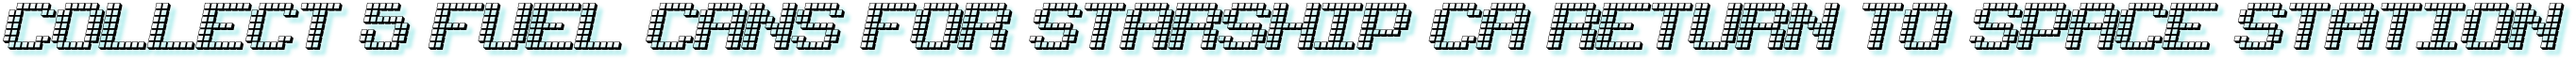
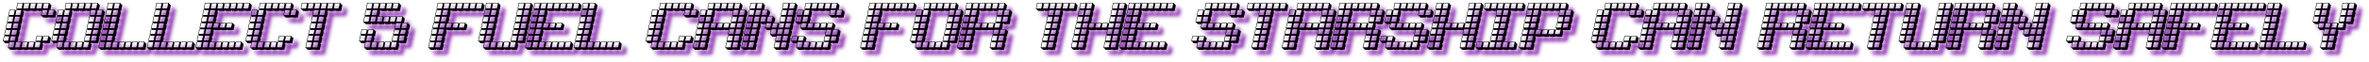
retoques

diff --git a/index.html b/index.html
@@ -1,37 +1,41 @@
 <!DOCTYPE html>
 <html lang="en">
-<head>
-    <meta charset="UTF-8">
-    <meta http-equiv="X-UA-Compatible" content="IE=edge">
-    <meta name="viewport" content="width=device-width, initial-scale=1.0">
+  <head>
+    <meta charset="UTF-8" />
+    <meta http-equiv="X-UA-Compatible" content="IE=edge" />
+    <meta name="viewport" content="width=device-width, initial-scale=1.0" />
     <title>document</title>
-    <link rel="stylesheet" href="./Styles/style.css">
-</head>
-<body>
-
+    <link rel="stylesheet" href="./Styles/style.css" />
+  </head>
+  <body>
     <div id="start-screen" class="container">
-        <img src="./images/logo.png" width="800" height="150" alt="logo">
-        <img src="./images/mission.png" width="400" height="80" alt="mission">
-        <img src="./images/mtext.png" width="900" height="30" alt="mtext">
-        <img src="./images/controls.png" width="400" height="80" alt="controls">
-        <img src="./images/arrow.png" width="500" height="200" alt="controls">
-        <button id="start-btn">Start!</button>
+      <img src="./images/logo.png" width="800" height="150" alt="logo" />
+      <img src="./images/mission.png" width="400" height="80" alt="mission" />
+      <img src="./images/mtext.png" width="900" height="30" alt="mtext" />
+      <img src="./images/controls.png" width="400" height="80" alt="controls" />
+      <img src="./images/arrow.png" width="500" height="200" alt="controls" />
+      <button id="start-btn">Start!</button>
     </div>
 
-    
     <div id="game-screen" class="container">
-        <span id="fuel-counter">Fuel: 0</span>
-        <div id="game-box"></div>
+      <span id="fuel-counter">Fuel: 0</span>
+      <div id="game-box"></div>
     </div>
 
     <div id="gameover-screen" class="container">
-        <img src="./images/gameover.png" width="500" height="150" alt="gameover">
-        <button id="restart-btn">Play again!</button>
+      <img
+        src="./images/gameover.png"
+        width="500"
+        height="150"
+        alt="gameover"
+      />
+      <button id="restart-btn">Play again!</button>
     </div>
 
     <div id="gamewin-screen" class="container">
-        <img src="./images/win.png" width="400" height="150" alt="win">
-        <button id="home-btn">Home screen</button>
+      <img src="./images/win.png" width="400" height="150" alt="win" />
+      <img src="./images/wintext.png" width="900" height="50" alt="wintext" />
+      <button id="home-btn">Home screen</button>
     </div>
 
     <script src="./js/main.js"></script>
@@ -40,6 +44,5 @@
     <script src="./js/meteor.js"></script>
     <script src="./js/fuel.js"></script>
     <script src="./js/comet.js"></script>
-
-</body>
+  </body>
 </html>

diff --git a/js/game.js b/js/game.js
@@ -28,10 +28,10 @@ class Game {
   collisionNaveMeteor = () => {
     this.meteorArr.forEach((eachMeteor) => {
       if (
-        this.nave.x < eachMeteor.x -10 + eachMeteor.w &&
-        this.nave.x + this.nave.w -10 > eachMeteor.x &&
-        this.nave.y < eachMeteor.y -10 + eachMeteor.h &&
-        this.nave.h + this.nave.y -10 > eachMeteor.y
+        this.nave.x < eachMeteor.x - 10 + eachMeteor.w &&
+        this.nave.x + this.nave.w - 10 > eachMeteor.x &&
+        this.nave.y < eachMeteor.y - 10 + eachMeteor.h &&
+        this.nave.h + this.nave.y - 10 > eachMeteor.y
       ) {
         this.gameOver();
       }
@@ -55,10 +55,10 @@ class Game {
   collisionNaveFuel = () => {
     this.fuelArr.forEach((eachFuel) => {
       if (
-        this.nave.x < eachFuel.x -10 + eachFuel.w &&
-        this.nave.x + this.nave.w -10 > eachFuel.x &&
-        this.nave.y < eachFuel.y -10 + eachFuel.h &&
-        this.nave.h + this.nave.y -10 > eachFuel.y
+        this.nave.x < eachFuel.x - 10 + eachFuel.w &&
+        this.nave.x + this.nave.w - 10 > eachFuel.x &&
+        this.nave.y < eachFuel.y - 10 + eachFuel.h &&
+        this.nave.h + this.nave.y - 10 > eachFuel.y
       ) {
         this.fuelCount++;
         console.log(this.fuelCount);
@@ -90,10 +90,10 @@ class Game {
   collisionNaveComet = () => {
     this.cometArr.forEach((eachComet) => {
       if (
-        this.nave.x < eachComet.x -10 + eachComet.w &&
-        this.nave.x + this.nave.w -10 > eachComet.x &&
-        this.nave.y < eachComet.y -10 + eachComet.h &&
-        this.nave.h + this.nave.y -10 > eachComet.y
+        this.nave.x < eachComet.x - 10 + eachComet.w &&
+        this.nave.x + this.nave.w - 10 > eachComet.x &&
+        this.nave.y < eachComet.y - 10 + eachComet.h &&
+        this.nave.h + this.nave.y - 10 > eachComet.y
       ) {
         this.gameOver();
       }
@@ -161,14 +161,3 @@ class Game {
   };
 }
 
-// planificación
-
-//PROPIEDADES
-//nave => posicion y tamaño
-//meteoritos => posicion y tamaño
-
-//METODOS
-//movimiento nave
-//movimiento meteoritos
-//colisiones
-//hueco aleatorio en fila meteoritos

diff --git a/Styles/style.css b/Styles/style.css
@@ -1,55 +1,59 @@
 body {
-    margin: 0;
-    background-color: black;
-    background-image: url("../images/bg.jpg");
-  }
+  margin: 0;
+  background-color: black;
+  background-image: url("../images/bg.jpg");
+}
 
-#start-btn, #restart-btn, #home-btn {
-    background-color: rgb(44, 44, 44);
-    color: rgb(8, 247, 255);
-    padding: 20px;
-    font-size: 20px;
-    margin-top: 20px;
-    border-radius: 10px;
+#start-btn,
+#restart-btn,
+#home-btn {
+  background-color: rgb(44, 44, 44);
+  color: rgb(8, 247, 255);
+  padding: 20px;
+  font-size: 20px;
+  margin-top: 20px;
+  border-radius: 10px;
 }
 
 .container {
-    display: flex;
-    flex-direction: column;
-    justify-content: center;
-    align-items: center;
-    margin: 50px;
+  display: flex;
+  flex-direction: column;
+  justify-content: center;
+  align-items: center;
+  margin: 50px;
 }
 
 #game-box {
-    background-color: darkgray;
-    width: 600px;
-    height: 400px;
+  background-color: darkgray;
+  width: 600px;
+  height: 400px;
 
-    overflow: hidden;
-    position: relative;
-    user-select: none;
+  overflow: hidden;
+  position: relative;
+  user-select: none;
 
-    background-image: url("../images/background.jpg");
-    background-position: center;
-    background-size: cover;
+  background-image: url("../images/background.jpg");
+  background-position: center;
+  background-size: cover;
 }
 
 #fuel-counter {
-    position: absolute;
-    top: 20px;
-    left: 400px;
-    color: rgb(8, 247, 255);
-    padding: 5px 10px;
-    font-size: 18px;
-    border: 1px;
-    background-image: url("../images/background.jpg");
+  position: absolute;
+  top: 20px;
+  left: 400px;
+  color: rgb(8, 247, 255);
+  padding: 5px 10px;
+  font-size: 18px;
+  border: 1px;
+  background-image: url("../images/background.jpg");
 }
 
-#game-screen, #gameover-screen, #gamewin-screen {
-    display: none;
+#game-screen,
+#gameover-screen,
+#gamewin-screen {
+  display: none;
 }
 
 img {
-    margin-bottom: 10px;
+  margin-bottom: 10px;
 }

diff --git a/js/nave.js b/js/nave.js
@@ -4,24 +4,20 @@ class Nave {
     this.node.src = "./images/nave.png";
     gameBoxNode.append(this.node);
 
-    //propiedades nave
-    this.x = 270; //posicion eje X
-    this.y = 300; //posicion eje Y
-    this.w = 70; //ancho
-    this.h = 90; //alto
+    this.x = 270;
+    this.y = 300;
+    this.w = 70;
+    this.h = 90;
 
     this.moveXSpeed = 20;
     this.moveYSpeed = 20;
 
-    //ajustar tamaño y posicion
     this.node.style.width = `${this.w}px`;
     this.node.style.height = `${this.h}px`;
     this.node.style.position = "absolute";
     this.node.style.top = `${this.y}px`;
     this.node.style.left = `${this.x}px`;
   }
-
-  //metodos nave
 
   moveEffectRight = () => {
     if (this.x < 500) {

diff --git a/js/comet.js b/js/comet.js
@@ -4,10 +4,10 @@ class Comet {
     this.node.src = "./images/comet.png";
     gameBoxNode.append(this.node);
 
-    this.x = -150; //posicion eje X
-    this.y = Math.floor(Math.random() * 320); //posicion eje Y
-    this.w = 80; //ancho
-    this.h = 25; //alto
+    this.x = -150;
+    this.y = Math.floor(Math.random() * 320);
+    this.w = 80;
+    this.h = 25;
 
     this.cometSpeed = 2;
 
